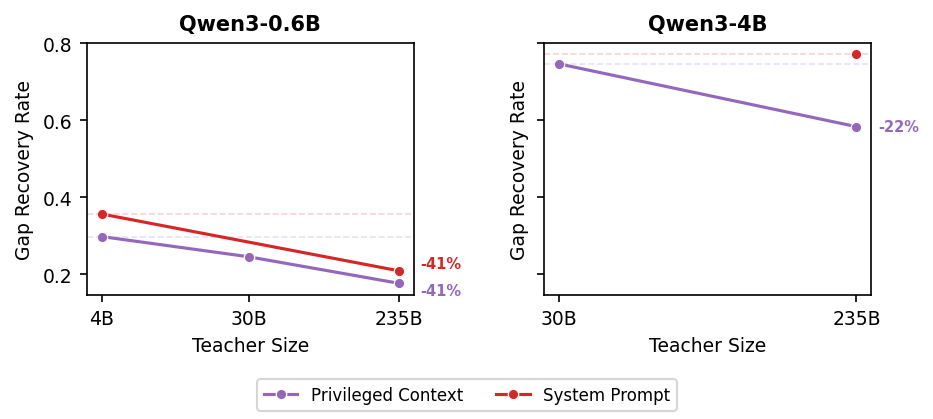
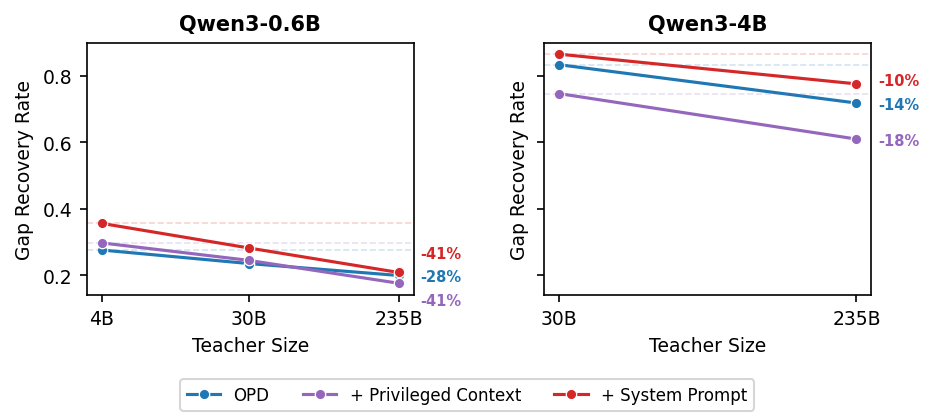
Updates from Overleaf

diff --git a/sections/experiments.tex b/sections/experiments.tex
@@ -86,7 +86,7 @@ for $ a > 0 $.
 <|im_start|>user
 Evaluate the limit: $$\lim_{x\to 0}x \left[ \frac{a}{x}\right]$$ for $a>0$.
 
-(*@{\bfseries\color{blue!70!black} Your logits are being used to train a 4B model}@*)
+(*@{\bfseries\color{blue!70!black} You are a 235B teacher and your logits are being used to train a 4B model}@*)
 
 <|im_end|>
 <|im_start|>assistant
@@ -99,7 +99,7 @@ for $ a > 0 $.
 ### Step 1: Simplify the expression ...
 \end{tcblisting}
 \end{minipage}
-    \caption{Example showing the difference between $\pi_\theta(\cdot \mid x, y_{<n})$ (Student Scoring Context) and $\pi_T(\cdot \mid x, c, y_{<n})$ (Teacher Scoring Context). The privileged context is \emph{Your logits are being used to train a 4B model} we add to the user turn the teacher sees when generating the logits, and it is the only difference between the text scored by the student and teacher policies.}
+    \caption{Example showing the difference between $\pi_\theta(\cdot \mid x, y_{<n})$ (Student Scoring Context) and $\pi_T(\cdot \mid x, c, y_{<n})$ (Teacher Scoring Context). The privileged context is \emph{You are a 235B teacher and your logits are being used to train a 4B model} we add to the user turn the teacher sees when generating the logits, and it is the only difference between the text scored by the student and teacher policies.}
     \label{fig: pc_example}
 \end{figure}
 
@@ -107,9 +107,9 @@ for $ a > 0 $.
 
 \section{Context Distillation vs. Direct System Prompt} \label{sec: exps_system_prompt}
 
-The simple PC informing the teacher model that its logits were being used to train a small student can noticeable but small effects. We wanted to know if we could use a richer PC that addressed the main failure modes of the results shown in Figures~\ref{fig: aime_score_scaling} and \ref{fig: aime_gap_scaling}.
+The simple PC informing the teacher model that its logits were being used to train a small student degraded performance compared to using OPD without PC. We wanted to know if we could use different PC that addressed the main failure modes of the results shown in Figures~\ref{fig: aime_score_scaling} and \ref{fig: aime_gap_scaling}.
 
-After an error analysis of the students from Section~\ref{sec: naive_pc}, we classified the errors into 5 categories:
+After an error analysis of the students from Section~\ref{sec: exp_opd_and_pc}, we classified the errors into 5 categories:
 
 \begin{itemize}
     \item \textbf{Truncation:} Generation cut off by the \texttt{max\_tokens} budget before the model produced an \texttt{ANSWER:} line.
@@ -130,7 +130,7 @@ To address the two main failure modes, we included a privileged context that enc
     \label{fig: pc_vs_system_prompt}
 \end{figure}
 
-\red{Talk about AIME scores when ready}
+We show the results of addressing the truncation problem in Figure \ref{fig: pc_vs_system_prompt}. 
 
 Besides the AIME scores, we also tracked statistic of the completions length through training and show them in Figure XX. The plot shows how the mean length of the completion goes from around 3500 tokens without the targeted PC to around 2000 tokens with the targeted PC intervention. More importantly, the truncated percentage of rollouts decreases from 70\% without PC to 27\% with PC. This decrease in the average length of the rollouts makes the student model even more efficient as it generates answers in fewer tokens.
 